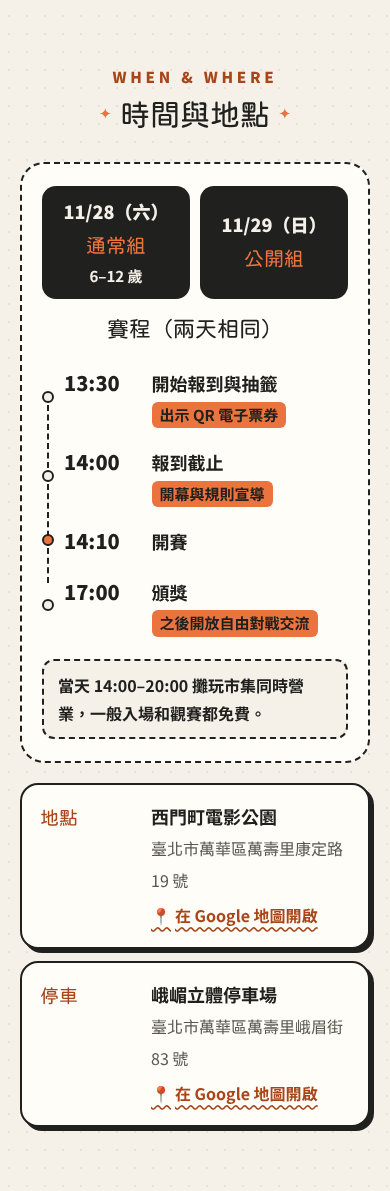
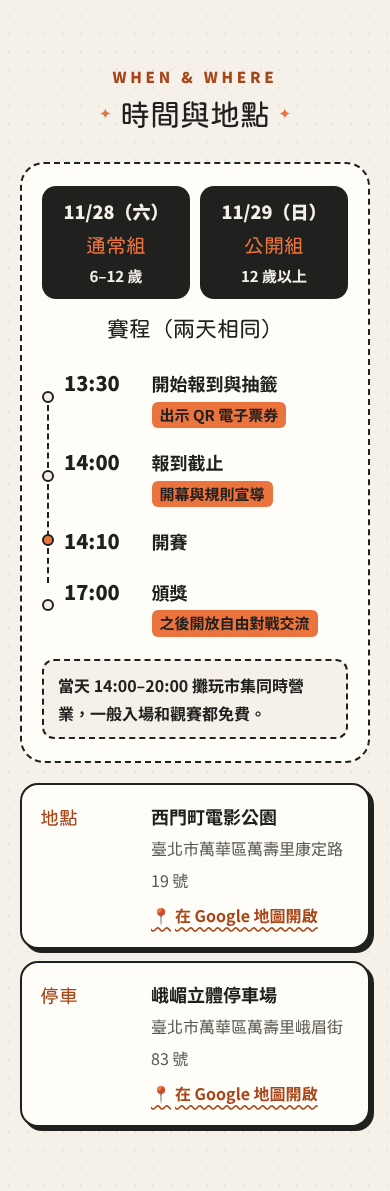
Race format: 公開組 is 12+, G2 split into the same two groups
- 通常組 6–12, 公開組 12+ for both G3 and G2, shown on the day chips,
  entry rules, monthly note, FAQ and meta description.
- G2 weekend: Saturday 通常組 and Sunday 公開組, 128 each, NT$300.
- Monthly tiles stack on mobile so the details read cleanly.

Claude-Session: https://claude.ai/code/session_012dQHuckgmktwtxDEBvdD1o

Changed region(s): [[0.5538, 0.1553, 0.8, 0.2485]]

diff --git a/cup/index.html b/cup/index.html
@@ -5,7 +5,7 @@
   <meta name="viewport" content="width=device-width, initial-scale=1">
 
   <title>旋轉吧！西門｜西門盃 第一屆公開循環賽 BEYBLADE X 戰鬥陀螺 G3 公開賽 11/28（六）–11/29（日）｜攤玩市集</title>
-  <meta name="description" content="旋轉吧！西門｜西門盃 第一屆公開循環賽（G3 官方認證賽事），2026/11/28（六）–11/29（日）在西門町電影公園舉行。週六通常組（6–12 歲）、週日公開組，每天 64 人，報名費每人 NT$200，觀賽免費。報名即將開放。每個週末舉辦 G3、每月一個週末舉辦 G2 官方認證賽事。">
+  <meta name="description" content="旋轉吧！西門｜西門盃 第一屆公開循環賽（G3 官方認證賽事），2026/11/28（六）–11/29（日）在西門町電影公園舉行。週六通常組（6–12 歲）、週日公開組（12 歲以上），每天 64 人，報名費每人 NT$200，觀賽免費。報名即將開放。每個週末舉辦 G3、每月一個週末舉辦 G2 官方認證賽事。">
   <meta name="theme-color" content="#F5F1E8">
   <link rel="canonical" href="https://tanwanmarket.com/cup/">
 
@@ -109,7 +109,7 @@
           <div class="schedule cup-schedule">
             <ul class="cup-days">
               <li><span class="cup-day-date">11/28（六）</span><span class="cup-day-group">通常組<small>6–12 歲</small></span></li>
-              <li><span class="cup-day-date">11/29（日）</span><span class="cup-day-group">公開組</span></li>
+              <li><span class="cup-day-date">11/29（日）</span><span class="cup-day-group">公開組<small>12 歲以上</small></span></li>
             </ul>
             <h3>賽程（兩天相同）</h3>
             <ol class="timeline cup-timeline">
@@ -166,7 +166,7 @@
             <h3>參賽資格</h3>
             <ul>
               <li>週六（11/28）通常組：限 6–12 歲</li>
-              <li>週日（11/29）公開組：資格依官方公告</li>
+              <li>週日（11/29）公開組：限 12 歲以上</li>
               <li>完成線上報名購票，當天 13:30–14:00 憑 QR 電子票券報到</li>
             </ul>
           </article>
@@ -241,12 +241,12 @@
 
         <div class="cup-monthly">
           <article class="cup-card cup-monthly-main">
-            <p>「旋轉吧！西門」系列賽事每個月都在西門町電影公園舉辦，比賽日在週六、週日（攤玩市集每週五、六、日營業）。</p>
+            <p>「旋轉吧！西門」系列賽事每個月都在西門町電影公園舉辦，<span class="nobr">比賽日在週六、週日</span>（攤玩市集每週五、六、日營業）。</p>
             <ul class="cup-monthly-types">
               <li><span class="cup-monthly-name">G3 公開賽</span><span class="cup-monthly-count">每個週末 <strong>2</strong> 場</span><span class="cup-monthly-detail">週六通常組、週日公開組，<span class="nobr">各 64 人，NT$200</span></span></li>
-              <li><span class="cup-monthly-name">G2 地區賽</span><span class="cup-monthly-count">每月 <strong>1</strong> 個週末</span><span class="cup-monthly-detail">週六、週日各 1 場，<span class="nobr">各 128 人，NT$300</span></span></li>
+              <li><span class="cup-monthly-name">G2 地區賽</span><span class="cup-monthly-count">每月 <strong>1</strong> 個週末</span><span class="cup-monthly-detail">週六通常組、週日公開組，<span class="nobr">各 128 人，NT$300</span></span></li>
             </ul>
-            <p class="cup-monthly-note">G2 週末不辦 G3。以上皆為官方認證賽事。每月賽程確認後，我們會一次公布並開放當月所有場次報名，可以一次報名多場，方便玩家提前安排。如遇場地活動需要調整，將提前公告延期日期。</p>
+            <p class="cup-monthly-note">通常組限 6–12 歲、公開組限 12 歲以上（G3、G2 相同）。G2 週末不辦 G3。以上皆為官方認證賽事。每月賽程確認後，我們會一次公布並開放當月所有場次報名，可以一次報名多場，方便玩家提前安排。如遇場地活動需要調整，將提前公告延期日期。</p>
           </article>
           <article class="cup-card cup-practice">
             <img class="cup-card-cat" src="../assets/cup/cat-challenge.webp" alt="攤玩貓拿著戰鬥陀螺，等著交流對戰" width="800" height="800" loading="lazy">
@@ -283,7 +283,7 @@
           </details>
           <details class="faq">
             <summary>多久舉辦一次比賽？</summary>
-            <div class="faq-body"><p>每個週末都有比賽：週六通常組、週日公開組各 1 場 G3 公開賽；每月有 1 個週末改辦 G2 地區賽（週六、週日各 1 場），G2 週末不辦 G3。當月賽程確認後會一次開放報名，可以一次報名多場。請追蹤 LINE 官方帳號 <a href="https://line.me/R/ti/p/@238nrzdb" target="_blank" rel="noopener">@238nrzdb<span class="sr-only">（另開新分頁）</span></a> 取得最新公告。</p></div>
+            <div class="faq-body"><p>每個週末都有比賽：週六通常組、週日公開組各 1 場 G3 公開賽；每月有 1 個週末改辦 G2 地區賽（週六通常組、週日公開組各 1 場），G2 週末不辦 G3。通常組限 6–12 歲、公開組限 12 歲以上。當月賽程確認後會一次開放報名，可以一次報名多場。請追蹤 LINE 官方帳號 <a href="https://line.me/R/ti/p/@238nrzdb" target="_blank" rel="noopener">@238nrzdb<span class="sr-only">（另開新分頁）</span></a> 取得最新公告。</p></div>
           </details>
           <details class="faq">
             <summary>沒有比賽的時候可以去練習嗎？</summary>

diff --git a/cup/cup.css b/cup/cup.css
@@ -258,6 +258,9 @@
 .cup-day-group { font-family: var(--font-fun); font-size: 1.25rem; color: var(--orange); }
 .cup-day-group small { display: block; font-family: var(--font-body); font-size: .9375rem; font-weight: 700; color: var(--paper); }
 .cup-monthly-detail { margin-top: 4px; font-size: .9375rem; line-height: 1.5; }
+@media (max-width: 639px) {
+  .cup-monthly-types { grid-template-columns: 1fr; }
+}
 
 /* ---------- 主辦與協辦 ---------- */
 .cup-org { padding: 32px 0; }
